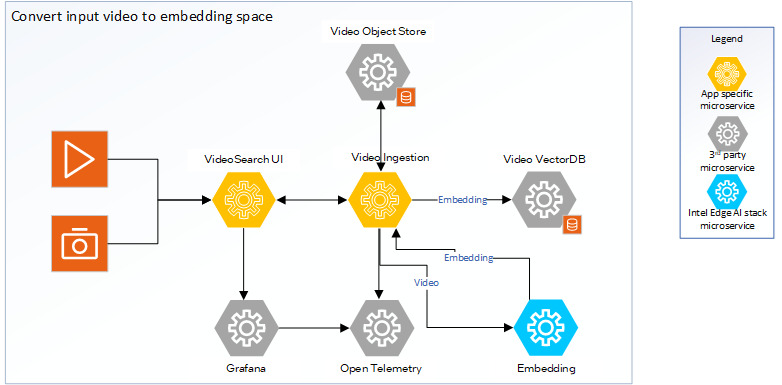
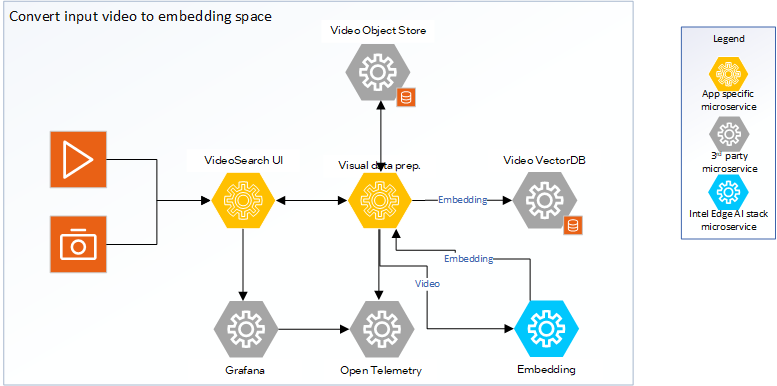
Combined mode documentation update

diff --git a/sample-applications/video-search-and-summarization/docs/user-guide/overview-architecture-search.md b/sample-applications/video-search-and-summarization/docs/user-guide/overview-architecture-search.md
@@ -7,15 +7,14 @@ The Video Search sample application includes the following components:
 
 - **Video Search UI**: Users can use the reference UI to interact with and use capabilities of the Video Search sample application. Queries are raised using the interface. Those queries that need to function in the background not just on current video corpus but all incoming videos can be marked as such in the UI. 
 
-- **Video ingestion microservice**: The sample video ingestion microservice allows ingestion of video from the object store. The ingestion process creates embeddings of the videos and stores them in the preferred vector database. The modular architecture allows users to customize the vector database. The sample application uses [Visual Data Management System (VDMS)](https://github.com/IntelLabs/vdms) database. The raw videos are stored in the MinIO\* object store, which is also customizable.
+- **Visual Data Prep. microservice**: The sample visual data preparation microservice allows ingestion of video from the object store. The ingestion process creates embeddings of the videos and stores them in the preferred vector database. The modular architecture allows users to customize the vector database. The sample application uses [Visual Data Management System (VDMS)](https://github.com/IntelLabs/vdms) database. The raw videos are stored in the MinIO\* object store, which is also customizable.
 
-- **Video Search backend microservice**: The Video Search backend microservice handles the queries from the users. The backend microservice is responsible for embedding search; and generates the response using the VLM inference microservice.
+- **Video Search backend microservice**: The Video Search backend microservice handles the queries from the users. The backend microservice is responsible for embedding the search query and generating the response based on the search result. The VectorDB is queried for the best match in the embedding space.
 
-- **VLM inference microservice**: Intel's optimized [OpenVINO™ model server](https://github.com/openvinotoolkit/model_server) efficiently runs vision language models on Intel® harware. Developers have other model-serving options, too, if required.
+- **Embedding inference microservice**: The OpenVINO™ based microservice runs embedding models efficiently on the target Intel hardware.
 
-- **Embedding inference microservice**: The OpenVINO™ model server runs embedding models efficiently on the target Intel hardware.
-
-- **Reranking inference microservice**: Though an option, the reranker is currently not used in the pipeline. OpenVINO™ model server runs the reranker models.
+- **Reranking inference microservice**: Though an option, the reranker is currently not used in the pipeline. OpenVINO™ model server runs the reranker models. \
+Note: In the figure, though Reranker is shown, the support for the same is a function of the VectorDB used. The default VSS pipeline uses VDMS VectorDB. Support for Reranker is not available with this VectorDB.
 
 
 See details on the system architecture and customizable options [here](./overview-architecture-search.md).
@@ -34,7 +33,7 @@ See details on the system architecture and customizable options [here](./overvie
 3. How components interact and support extensibility.
 -->
 
-Video Search pipeline is a combination of the core LangChain application logic that implements the Video Search pipeline and the set of microservices that implements the salient blocks of the video search pipeline. The following figures illustrate the setup. The Video Search UI communicates with the Video Search backend microservice. The VLM and embedding microservices are provided as part of Intel Edge AI inference microservices catalog supporting a rich set of open-source models that can be downloaded from popular model hubs. For example, the [Hugging Face OpenVINO toolkit](https://huggingface.co/OpenVINO), a model from Hugging Face\* Model Hub that has been optimized using Intel's OpenVINO™ toolkit. The video ingestion microservice can ingest common video formats, convert it into embedding space, and store it in the vector database. You can also save a copy of the video to the object store.
+Video Search pipeline is a combination of the core LangChain application logic that implements the Video Search pipeline and the set of microservices that implements the salient blocks of the video search pipeline. The following figures illustrate the setup. The Video Search UI communicates with the Video Search backend microservice. The Embedding microservice is provided as part of Intel Edge AI inference microservices catalog supporting a rich set of open-source models that can be downloaded from popular model hubs. For example, the [Hugging Face OpenVINO toolkit](https://huggingface.co/OpenVINO), a model from Hugging Face\* Model Hub that has been optimized using Intel's OpenVINO™ toolkit. The visual data prep. microservice can ingest common video formats, convert it into embedding space, and store it in the vector database. You can also save a copy of the video to the object store.
 
 ### Technical Architecture Diagram
 ![Technical Architecture Diagram of video ingestion](./images/TEAI_VideoSearch_Arch-ingest.png)
@@ -47,7 +46,7 @@ Video Search pipeline is a combination of the core LangChain application logic t
 
 ### Application Flow
 1. **Input Sources**:
-   - **Videos**: The video ingestion microservice supports ingesting from common video formats. Currently, the ingestion supports ingesting video only from video files. Support for live streaming input is not provided yet.
+   - **Videos**: The visual data prep. microservice supports ingesting from common video formats. Currently, the ingestion supports ingesting video only from video files. Support for live streaming input is not provided yet.
    
 2. **Create the context**
 
@@ -69,10 +68,8 @@ Video Search pipeline is a combination of the core LangChain application logic t
    
    - **Observability dashboard**: If set up, the dashboard displays real-time logs, metrics, and traces providing a view of the performance, accuracy, and resource consumption by the application.  
 
-Note: The VLM microservice provides an additional option to query the videos returned from search. It should be seen as a place holder for integration to the richer video summary pipeline.
-
 The following figure shows the application flow, including the APIs and data sharing protocols:
-![Data flow figure](./images/VideoSearch-request.jpg)
+![Data flow figure](./images/VideoSearch-request.png)
 *Figure 3: Data flow for Video Search sample application
 
 ## Key Components and Their Roles
@@ -83,14 +80,14 @@ The following figure shows the application flow, including the APIs and data sha
 -->
 
 1. **Intel Edge AI Inference microservices**:
-   - **What it is**: Inference microservices are the embeddings, VLM (if used), and reranker microservices that run the chosen models on the hardware, optimally. 
+   - **What it is**: Inference microservices are the embeddings and reranker microservices that run the chosen models on the hardware, optimally. 
    - **How it is used**: Each microservice uses OpenAI\* APIs to support their functionality. The microservices are configured to use the required models and are ready. The Video Search backend accesses these microservices in the LangChain\* application which creates a chain out of these microservices.
    - **Benefits**: Intel guarantees that the sample application's default microservices configuration is optimal for the chosen models and the target deployment hardware. Standard OpenAI APIs ensure easy portability of different inference microservices.
 
-2. **Video ingestion microservice**:
-   - **What it is**: Video ingestion microservice can ingest contents from videos, create the necessary context, and retrieve the right context based on user query.
+2. **Visual Data Prep. microservice**:
+   - **What it is**: This microservice can ingest contents from videos, create the necessary context, and retrieve the right context based on user query.
    - **How it is used**: Video ingestion microservice provides a REST API endpoint that can be used to manage the contents. The Video Search backend uses this API to access its capabilities.
-   - **Benefits**: The core part of the video ingestion microservice is the vector handling capability that is optimized for the target deployment hardware. You can select the vector database based on performance considerations. Reference video ingestion is provided in the implementation.
+   - **Benefits**: The core part of the video ingestion functionality is the vector handling capability that is optimized for the target deployment hardware. You can select the vector database based on performance considerations. The implementation can be treated as a reference implementation.
 
 3. **Video Search backend microservice**:
    - **What it is**: Video Search backend microservice is a LangChain framework-based implementation of Video Search's RAG pipeline, which handles user queries.
@@ -108,10 +105,10 @@ Intel designed the Video Search sample application with modularity, allowing dev
 
 1. **Change inference microservices**:
 
-   - The default option is OpenVINO model server. It is possible to use other model servers like Virtual Large Language Model (vLLM) with OpenVINO as backend and Text Generation Inference (TGI) to host Vision-Language Models (VLMs) too though the options have not been validated.
+   - The default option is OpenVINO model server. It is possible to use other model servers like Virtual Large Language Model (vLLM) with OpenVINO as backend and Text Generation Inference (TGI) to host Embedding and Vision-Language Models (VLMs) too though the options have not been validated.
    - The mandatory requirement is OpenAI API compliance. Note that Intel does not guarantee that other model servers can provide the same performance compared to the default options.
    
-2. **Load different VLM, embedding, and reranker models**:
+2. **Load different Embedding, and reranker models**:
 
    - Use different models from Hugging Face OpenVINO Toolkit or vLLM model hub. The models are passed as a parameter to corresponding model servers.
    

diff --git a/sample-applications/video-search-and-summarization/docs/user-guide/overview-architecture-search-and-summary.md b/sample-applications/video-search-and-summarization/docs/user-guide/overview-architecture-search-and-summary.md
@@ -22,8 +22,11 @@ The system architecture diagram shows the Video Search and Summary pipeline and 
 8. **Vector Database and Search**: A vector database stores the multimodal embeddings and enables fast semantic search across the video collection. Users can search for videos using natural language queries that are matched against video content semantically.
 
 ![System Architecture Diagram](./images/TEAI_VideoSearchSumm.png)
+*Figure 1: Architecture of video search and summary sample application
 
 Further details on the system architecture and customizable options are available [here](./overview-architecture-summary.md).
+
+Note: In the figure, though Reranker is shown, the support for the same is a function of the VectorDB used. The default VSS pipeline uses VDMS VectorDB. Support for Reranker is not available with this VectorDB.
 
 
 ## Detailed Architecture
@@ -44,7 +47,7 @@ The VLM, LLM, and Embedding microservices are provided as part of Intel Edge AI 
 
 ### Architecture Diagram
 ![Technical Architecture Diagram of video search and summary](./images/TEAI_VideoSearchSumm_Arch.png)
-*Figure 2: Architecture of video search and summary sample application
+*Figure 2: Microservices used in video search and summary sample application
 
 ### Application Flow
 The application flow involves the following steps for both search indexing and summarization:

diff --git a/sample-applications/video-search-and-summarization/docs/user-guide/index.rst b/sample-applications/video-search-and-summarization/docs/user-guide/index.rst
@@ -5,7 +5,7 @@ VSS foundational application provides three distinct modes in which its capabili
 
 1. :doc:`Video Summary <Overview-summary>`
 2. :doc:`Video Search <Overview-search>`
-3. Video Search and Summary
+3. :doc:`Video Search and Summary <Overview-search-summary>`
 
 Other references
 ################
@@ -25,6 +25,7 @@ To get started with the application, please refer to the :doc:`Get Started <./ge
    overview-architecture
    overview-architecture-search
    overview-architecture-summary
+   overview-architecture-search-summary
    system-requirements
    Get Started <get-started>
    build-from-source
